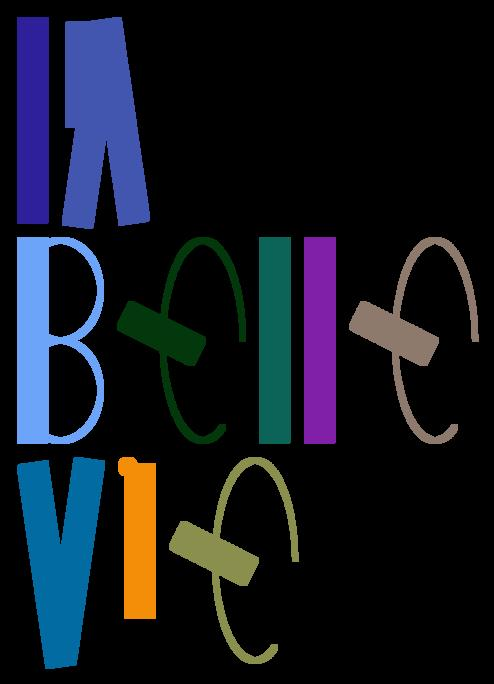
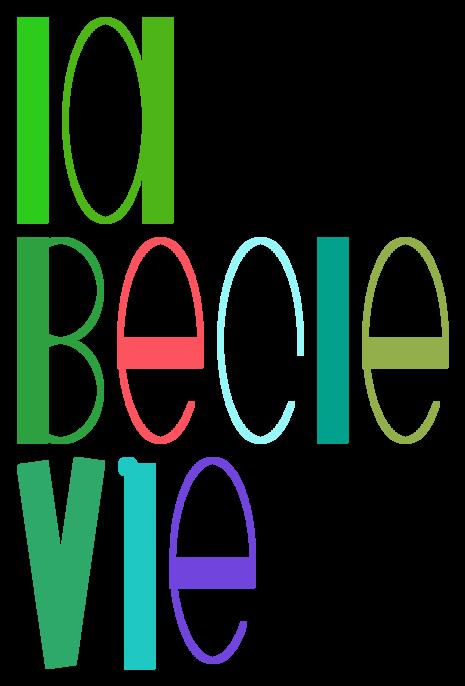
Mat: il reste le i et le c

diff --git a/TP1/TP1/src/tp1/LetterFactory.java b/TP1/TP1/src/tp1/LetterFactory.java
@@ -12,23 +12,26 @@ public final class LetterFactory {
 
     public static BaseShape create_e() {
         BaseShape C = create_C();
-        Rectangle rect = new Rectangle(stripeThickness, maxWidth).rotate(90.0);
+        Rectangle rect = new Rectangle(maxWidth, stripeThickness).translate(new Point2d(-halfMaxWidth, 0.0));
         return C.add(rect);
     }
 
     public static BaseShape create_a() {
-        BaseShape C = create_C();
-        Rectangle rect = new Rectangle(stripeThickness, maxHeight).translate(new Point2d(halfMaxWidth, 0.0));
-        return C.add(rect);
+        Ellipse bigEllipse = new Ellipse(maxWidth, maxHeight);
+        Ellipse smallEllipse = new Ellipse(maxWidth - stripeThickness, maxHeight- stripeThickness);
+        bigEllipse.remove(smallEllipse);
+
+        Rectangle rect = new Rectangle(stripeThickness, maxHeight).translate(new Point2d(halfMaxWidth , -halfMaxHeight));
+        return bigEllipse.add(rect);
     }
 
     public static BaseShape create_C() {
         Ellipse bigEllipse = new Ellipse(maxWidth, maxHeight);
         Ellipse smallEllipse = new Ellipse(maxWidth - stripeThickness, maxHeight- stripeThickness);
         bigEllipse.remove(smallEllipse);
-
-        Rectangle rectToRemove = new Rectangle(stripeThickness, maxHeight / 2);
-        rectToRemove.translate(new Point2d(halfMaxWidth / 2, 0.0));
+         // a revoir pour a quel point des un c et si cest trop similaire
+        Rectangle rectToRemove = new Rectangle(halfMaxWidth, halfMaxHeight / 2.0);
+        rectToRemove.translate(new Point2d(halfMaxWidth / 2.0D, halfStripeThickness));
         bigEllipse.remove(rectToRemove);
 
         return bigEllipse;
@@ -41,7 +44,7 @@ public final class LetterFactory {
         Rectangle rect = new Rectangle(stripeThickness, maxHeight);
         Circle circle = new Circle(halfStripeThickness);
 
-        rect.remove((new Rectangle(stripeThickness, maxHeight / 4)).translate(new Point2d(0.0, 3 * maxHeight / 4)));
+        rect.remove((new Rectangle(stripeThickness, maxHeight / 4)).translate(new Point2d(0.0,  - maxHeight / 2)));
         rect.add(circle);
         return rect;
     }

diff --git a/TP1/TP1/src/tp1/Main.java b/TP1/TP1/src/tp1/Main.java
@@ -11,10 +11,10 @@ public class Main {
         System.out.println("Bienvenue au premier labo de INF2010!");
         LetterPlacer letterPlacer = new LetterPlacer();
         letterPlacer.placeNext('l');
-        letterPlacer.placeNext('A');
+        letterPlacer.placeNext('a');
         letterPlacer.placeNextln('B');
         letterPlacer.placeNext('e');
-        letterPlacer.placeNext('l');
+        letterPlacer.placeNext('C');
         letterPlacer.placeNext('l');
         letterPlacer.placeNext('e');
         letterPlacer.placeNextln('V');
